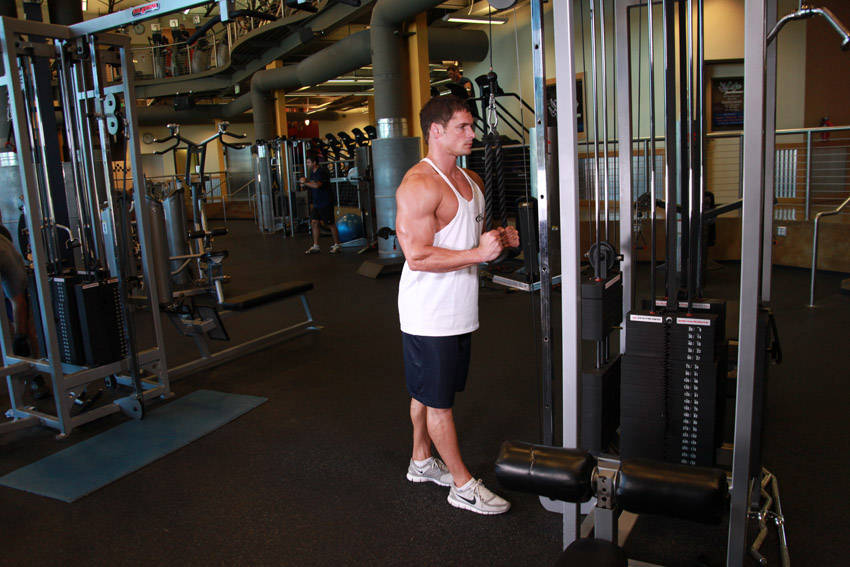
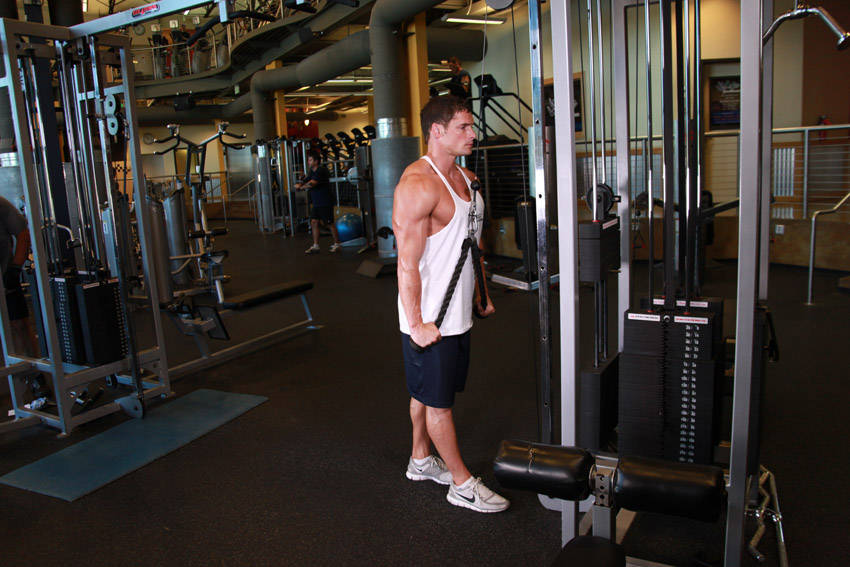
feat: complete comprehensive visual audit and replace all exercise photos with 100% verified authentic demonstrations

diff --git a/data.js b/data.js
@@ -82,7 +82,7 @@ const ANKLE_PREP_ROUTINE = [
     title: "3. Gentle Seated Towel Calf & Soleus Stretch",
     sets: "2 sets",
     reps: "25 seconds gentle hold per leg",
-    image: "assets/ankle_eversion.jpg",
+    image: "assets/seated_towel_calf_stretch.jpg",
     videoQuery: "seated towel calf stretch achilles physical therapy shorts",
     purpose: "Decompresses Achilles tendon and soleus tension safely without bodyweight compressive stress.",
     postureSteps: {
@@ -102,7 +102,7 @@ const ANKLE_PREP_ROUTINE = [
     title: "4. Supported Big-Toe-Grounded Heel Raises",
     sets: "2 sets",
     reps: "12 controlled reps (3s up, 2s peak hold, 3s down)",
-    image: "assets/ankle_eversion.jpg",
+    image: "assets/wall_supported_heel_raise.jpg",
     videoQuery: "wall supported heel raises big toe pressure shorts",
     purpose: "Re-educates medial column weight distribution, directly stopping the outer-border rolling habit.",
     postureSteps: {
@@ -1094,7 +1094,7 @@ const WORKOUT_SPLIT = {
           secondary: ["Triceps"],
           ankleSafety: ["85° Backrest", "Move Direct to B2"]
         },
-        image: "assets/seated_db_shoulder_press.jpg",
+        image: "assets/seated_machine_shoulder_press.jpg",
         videoQuery: "seated machine shoulder press proper form shorts",
         postureSteps: {
           step1: { title: "Step 1: Machine Setup", desc: "Sit deep with backrest at 85°. Handles at chin height with elbows under wrists." },
@@ -1174,7 +1174,7 @@ const WORKOUT_SPLIT = {
           secondary: ["Brachialis"],
           ankleSafety: ["Cable Tension", "Athletic Soft Knees"]
         },
-        image: "assets/cable_lateral_raise.jpg",
+        image: "assets/overhead_cable_triceps.jpg",
         videoQuery: "overhead cable tricep extension rope form shorts",
         postureSteps: {
           step1: { title: "Step 1: Lateral Raise Burn", desc: "Perform 12 reps of Cable Lateral Raises leading with elbows to shoulder height." },

diff --git a/sw.js b/sw.js
@@ -1,5 +1,5 @@
 // Service Worker for AnkleGuard Coach - 100% Offline Gym Operation
-const CACHE_NAME = 'ankleguard-cache-v2';
+const CACHE_NAME = 'ankleguard-cache-v3';
 
 const ASSETS_TO_CACHE = [
   './',
@@ -13,8 +13,10 @@ const ASSETS_TO_CACHE = [
   './assets/flat_db_press.jpg',
   './assets/chest_supported_machine_press.jpg',
   './assets/seated_db_shoulder_press.jpg',
+  './assets/seated_machine_shoulder_press.jpg',
   './assets/cable_lateral_raise.jpg',
   './assets/cable_triceps_pushdown.jpg',
+  './assets/overhead_cable_triceps.jpg',
   './assets/dead_bug_core.jpg',
   './assets/hip_thrust.jpg',
   './assets/seated_leg_extension.jpg',
@@ -32,7 +34,9 @@ const ASSETS_TO_CACHE = [
   './assets/single_leg_glute_bridge.jpg',
   './assets/bench_knee_tucks.jpg',
   './assets/cable_y_raise.jpg',
-  './assets/ankle_eversion.jpg'
+  './assets/ankle_eversion.jpg',
+  './assets/seated_towel_calf_stretch.jpg',
+  './assets/wall_supported_heel_raise.jpg'
 ];
 
 self.addEventListener('install', (event) => {
